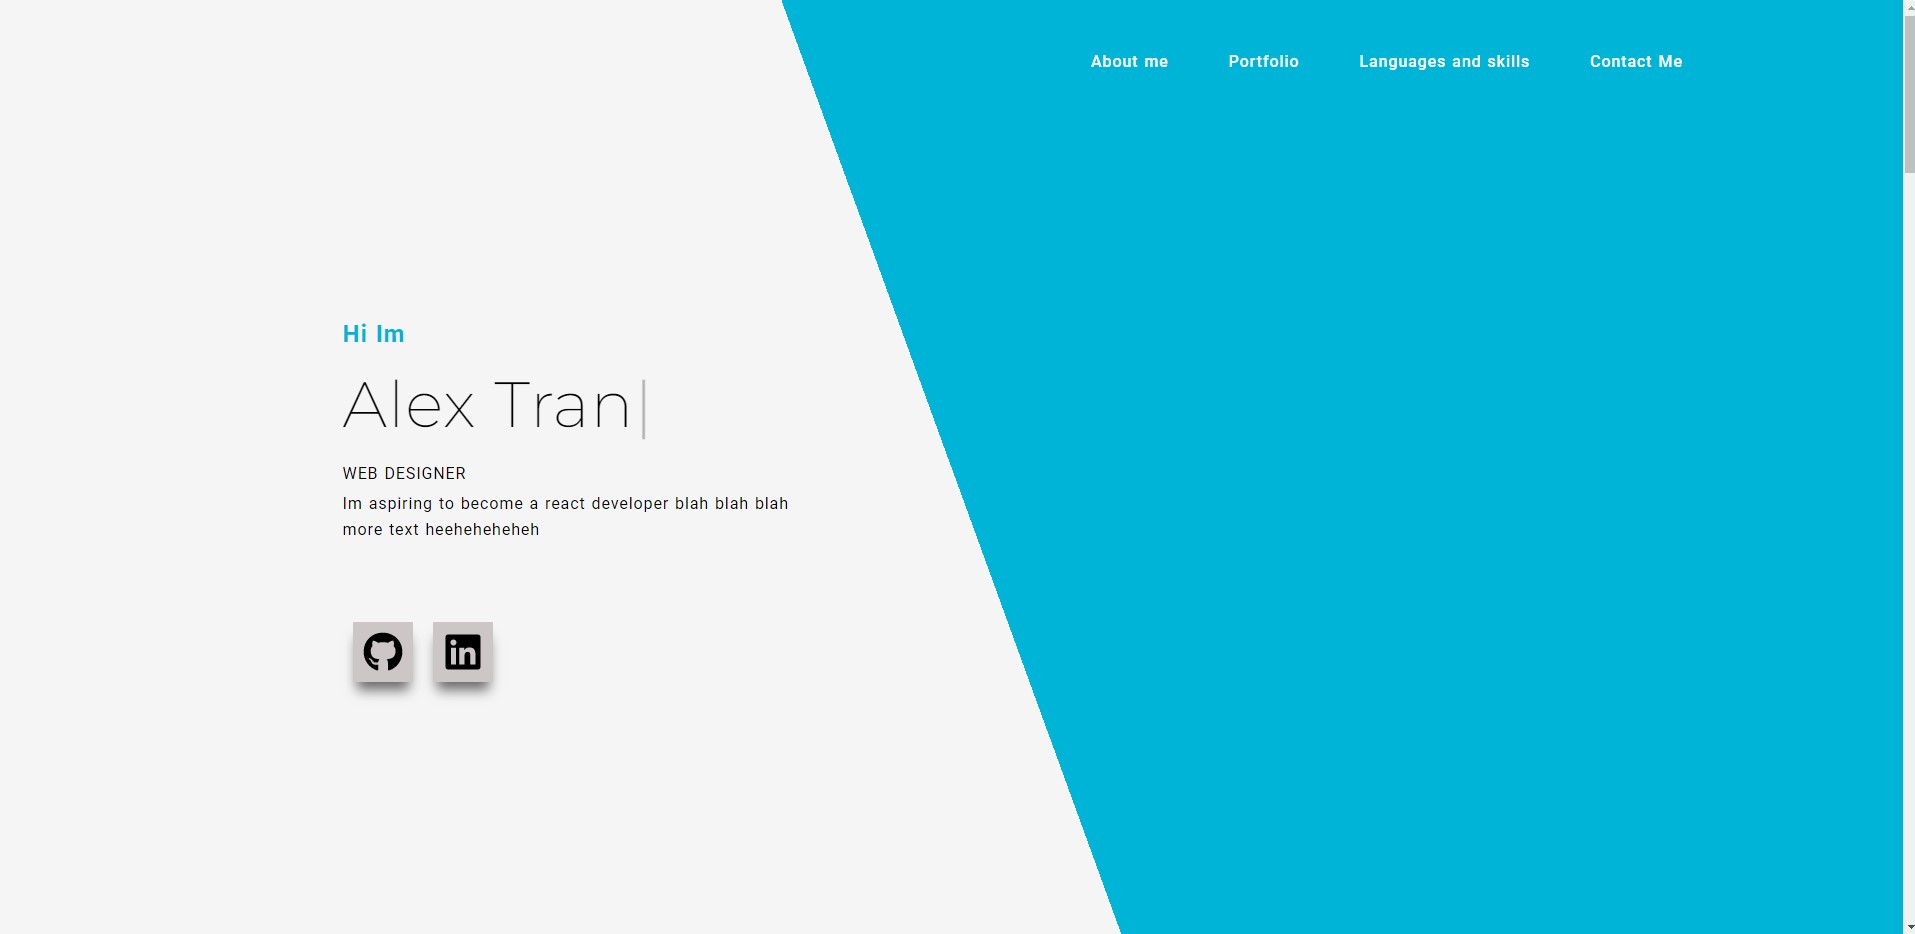
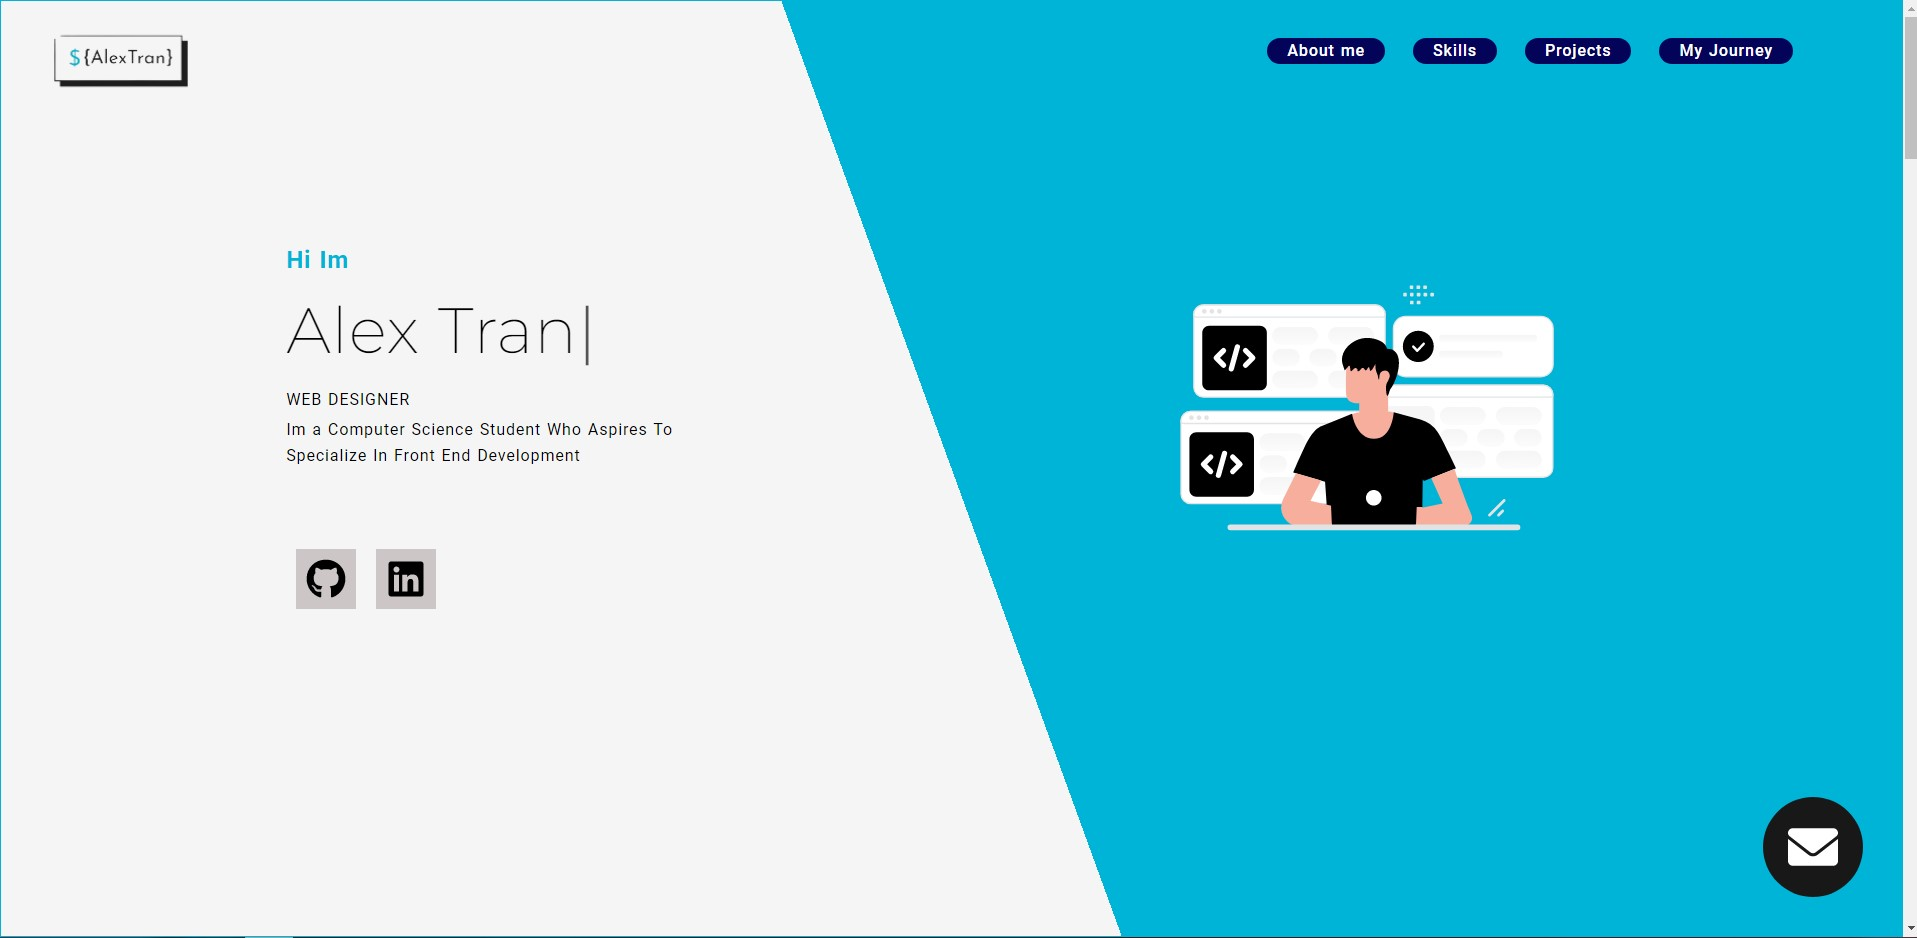
forgot to add some touchups

diff --git a/src/ui/ReactPortfolioCards.jsx b/src/ui/ReactPortfolioCards.jsx
@@ -4,6 +4,7 @@ import reakt from "../assets/reactphotos/reakt.jpg";
 import adashacademy from "../assets/reactphotos/a-academy.jpg";
 import ecommerce from "../assets/reactphotos/react-ecommerce.jpg";
 import todo from "../assets/reactphotos/TODO.jpg";
+import comparisonphoto from "../assets/comparisonphoto.jpg";
 
 const Reactportfoliocards = () => {
   return (
@@ -29,6 +30,15 @@ const Reactportfoliocards = () => {
         features="Saved Highscore using local storage, tutorial modal, timer"
         image={reakt}
       />
+
+       <Portfoliocard
+      link="alextranportfolio.com"
+        title="E-PortfolioV4"
+        text="The website your on right now"
+        features="Intuitive Image Carousel, Image comparison Slider, Onscroll Animations, Working Email Service, Contact Modal"
+        image={comparisonphoto}
+      />
+
       <Portfoliocard
         title="TODO App"
         text="TODO Application with firebase integration. (STILL IN DEVELOPMENT)"

diff --git a/src/App.css b/src/App.css
@@ -126,6 +126,8 @@ nav > img {
   position: relative;
   background: linear-gradient(250deg, var(--blue), 50%, rgb(245, 245, 245) 50%);
   height: 100vh;
+  max-height: 1200px;
+  min-height: 620px;
 }
 
 .homesvg {
